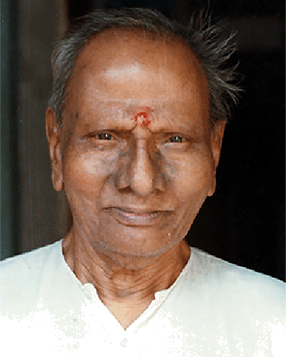
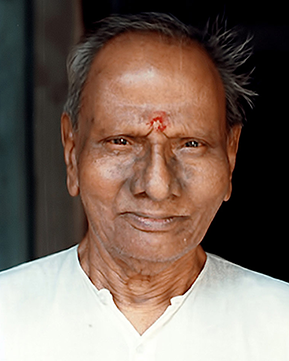
Png

diff --git a/meditation/src/css/style.min.css b/meditation/src/css/style.min.css
@@ -1,1 +1,1 @@
-/*! normalize.css v8.0.1 | MIT License | github.com/necolas/normalize.css */html{line-height:1.15;-webkit-text-size-adjust:100%}body{margin:0}main{display:block}h1{font-size:2em;margin:.67em 0}hr{box-sizing:content-box;height:0;overflow:visible}pre{font-family:monospace,monospace;font-size:1em}a{background-color:transparent}abbr[title]{border-bottom:none;text-decoration:underline;-webkit-text-decoration:underline dotted;text-decoration:underline dotted}b,strong{font-weight:bolder}code,kbd,samp{font-family:monospace,monospace;font-size:1em}small{font-size:80%}sub,sup{font-size:75%;line-height:0;position:relative;vertical-align:baseline}sub{bottom:-.25em}sup{top:-.5em}img{border-style:none}button,input,optgroup,select,textarea{font-family:inherit;font-size:100%;line-height:1.15;margin:0}button,input{overflow:visible}button,select{text-transform:none}[type=button],[type=reset],[type=submit],button{-webkit-appearance:button}[type=button]::-moz-focus-inner,[type=reset]::-moz-focus-inner,[type=submit]::-moz-focus-inner,button::-moz-focus-inner{border-style:none;padding:0}[type=button]:-moz-focusring,[type=reset]:-moz-focusring,[type=submit]:-moz-focusring,button:-moz-focusring{outline:1px dotted ButtonText}fieldset{padding:.35em .75em .625em}legend{box-sizing:border-box;color:inherit;display:table;max-width:100%;padding:0;white-space:normal}progress{vertical-align:baseline}textarea{overflow:auto}[type=checkbox],[type=radio]{box-sizing:border-box;padding:0}[type=number]::-webkit-inner-spin-button,[type=number]::-webkit-outer-spin-button{height:auto}[type=search]{-webkit-appearance:textfield;outline-offset:-2px}[type=search]::-webkit-search-decoration{-webkit-appearance:none}::-webkit-file-upload-button{-webkit-appearance:button;font:inherit}details{display:block}summary{display:list-item}template{display:none}[hidden]{display:none}@font-face{font-family:vivaldi;src:url(../fonts/vivaldi.ttf);font-weight:400;font-style:normal}@font-face{font-family:'Montserrat Alternates',sans-serif;font-family:Montserrat,sans-serif;font-family:'Open Sans',sans-serif;font-family:Lobster,cursive;font-family:Comfortaa,cursive;font-family:'Marck Script',cursive;font-family:'Bad Script',cursive}html{font-size:18px;color:#000}body{font-family:'Open Sans',sans-serif;overflow-wrap:break-word;word-wrap:break-word}.container{min-width:320px;max-width:100%;padding:0 0;box-sizing:border-box;margin:0 auto;background:#f0ece7}.wrap{min-width:0;max-width:1280px;padding:0 15px;box-sizing:border-box;margin:0 auto;box-sizing:border-box}.header{background:url(../img/bg.jpg) center center no-repeat;background-size:cover;padding:10px 0 250px 0;position:relative}.header::after{content:"";background:rgba(0,0,0,.342);top:0;left:0;position:absolute;z-index:1;width:100%;height:100%}.header__wrap{display:flex;justify-content:space-between;z-index:3}.header__logo{display:flex;align-items:center;z-index:2}.logo__img{width:80px;height:auto}.logo__name{color:#fff;font-family:'Montserrat Alternates',sans-serif;font-size:20px;margin-left:20px}.header__lang{display:flex;justify-content:space-between;align-items:center;z-index:2;order:3}.header__lang a{text-decoration:none;color:#fff;border-bottom:1px solid transperant;display:block}.header__lang a:active,.header__lang a:hover{border-bottom:1px solid #e74c3c}.header__lang a:active span,.header__lang a:hover span{color:#e74c3c}.header__lang a:first-child{margin-right:0;padding-right:0}.header__lang a:last-child{margin-left:5px}.header__lang a span{font-size:20px;color:#fff}.header__lang a .lang__divider{margin-left:5px;border-right:2px solid #e6cccc;line-height:1;font-size:14px}.header__quote{max-width:900px;margin:250px auto;position:relative;z-index:2;padding-right:0;padding-left:0}.header__quote p{font-size:30px;color:#fff;text-align:center;font-family:'Open Sans',sans-serif;font-weight:300}.header__quote span{display:block;margin:0 auto;font-family:Montserrat,sans-serif;font-size:20px;font-weight:300;text-align:center;color:#fff;letter-spacing:1.2}.divider{display:block;width:7px;position:relative;margin:20px auto}.divider p{text-align:center}.divider p::after{content:"";width:7px;height:7px;background-color:#e74c3c;display:block;border-radius:50%}.divider::after,.divider::before{content:"";width:80px;height:1px;background-color:#999;display:block;position:absolute;top:50%;transform:translateY(-1px)}.divider::before{left:-90px}.divider::after{right:-90px}@media (max-width:980px){.header{padding:10px 0 150px 0}.header__quote{width:96%;padding-left:2%;padding-right:2%}.header__quote p{font-size:25px}}@media (max-width:980px){.header__lang{position:absolute;top:29px;right:80px}.header__wrap{padding:0 10px;flex-wrap:wrap}.header__logo{display:flex;justify-content:flex-start;align-items:center}.header__logo img{width:60px}.header__logo .logo__name{margin-left:5px}.header__lang{margin-left:-20px;order:2}.header__menu{margin-top:10px;justify-content:center;padding-left:0;order:3;margin:0 auto;display:none}.menu__element{padding:20px 20px}.menu__element a{padding:5px 0}.header__quote{max-width:900px;margin:180px 0 80px}.header__quote p{margin-bottom:30px}}@media (max-width:480px){.header__quote{margin:145px 0 125px}.header__quote p{margin-bottom:20px;font-size:20px}.header__quote span{display:16px}}@media (max-width:360px){.header__wrap{min-width:0}.logo__name{margin-left:5px}}.divider{display:block;width:7px;position:relative;margin:20px auto}.divider p{text-align:center}.divider p::after{content:"";width:7px;height:7px;background-color:#e74c3c;display:block;border-radius:50%}.divider::after,.divider::before{content:"";width:80px;height:1px;background-color:#999;display:block;position:absolute;top:50%;transform:translateY(-1px)}.divider::before{left:-90px}.divider::after{right:-90px}.menu{position:relative;z-index:3;width:900px;align-items:center;padding-top:17px}.menu__list{list-style:none;display:flex;justify-content:center;align-items:center;z-index:3}.menu__list .menu__element{transition-duration:.5s;transition-property:background-color;padding:0 20px;list-style:none}.menu__list .menu__link{text-decoration:none}.menu__list .menu__link:focus,.menu__list .menu__link:hover{color:#e6cccc}.menu__list a{text-decoration:none;color:#fff;font-family:'Montserrat Alternates',sans-serif;font-size:20px;border-top:1px solid transparent;border-bottom:1px solid transparent;padding-bottom:5px;font-weight:400}.menu__list a:hover{border-bottom:1px solid #e6cccc}.menu__element{padding:10px;transition-duration:.5s;transition-property:background-color}.menu__element:last-child{margin-right:100px}.menu__link{text-decoration:none;color:#fff;font-weight:600}.menu__link:focus{color:#fff}.menu__link:hover{color:#e6cccc}.menu__list--active{display:flex;width:900px;justify-content:space-between;align-items:center;z-index:1;position:absolute;right:-10px;top:0}@media (max-width:980px){menu{width:900px}.menu__list{display:none}.menu__list .menu__element{padding:0 5px}.menu__element:last-child{margin-right:80px}.menu__list--active{flex-direction:column;justify-content:center;align-items:center;width:100vw;height:100vh;background:linear-gradient(to top,#404040,#72655c);z-index:3;margin-top:-75px;display:flex}.menu__list--active .menu__element{margin-bottom:120px;display:block}.menu__list--active .menu__element:last-child{margin-right:0}.menu__list--active .menu__element:hover{text-align:center;vertical-align:center}.menu__list--active .menu__element:hover .menu__link{border-bottom:1px solid #e6cccc}.menu__list--active .menu__link{color:#fff;font-size:30px}}@media (max-width:580px){.menu__list--active{align-items:center}.menu__element:last-child{margin-right:100px}}.hamburger{background:0 0;display:block;cursor:pointer;border:none;position:absolute;width:50px;height:40px;right:-6px;top:-51px;outline:0;z-index:2}.hamburger:hover .hamburger__element{background-color:#e6cccc}.hamburger__element{width:30px;height:2px;background-color:#fff;display:block;margin:6px auto}.hamburger--active{position:absolute;z-index:1;outline:0;top:-50px}.hamburger--active .hamburger__element{margin:-2px auto;background-color:#ccc}.hamburger--active .hamburger__element:nth-child(1){transform:rotate(45deg)}.hamburger--active .hamburger__element:nth-child(2){transform:rotate(-45deg)}.hamburger--active .hamburger__element:nth-child(3),.hamburger--active .hamburger__element:nth-child(4){display:none}.hamburger--active:hover .hamburger__element{background-color:#e6cccc}@media (max-width:980px){.hamburger--active{z-index:4}}.title{font-size:30px;font-weight:600;font-family:'Montserrat Alternates',sans-serif;color:#353439;text-align:center}.quote{text-align:center;width:40%;display:block;margin:0 auto;font-weight:400;color:#5d5d5d}.lotus{margin:0 auto;margin-top:50px;text-align:center}.lotus img{height:100%;width:50px}@media (max-width:980px){.quote{width:60%}}@media (max-width:768px){.quote{width:80%}}@media (max-width:480px){.quote{width:90%}}.text__block{width:725px;margin:0 auto;margin-top:40px}.text__block a{color:#818080}.text__block a:hover{color:#e6cccc}.text{color:#353739;line-height:1.5;text-align:justify;text-indent:5%;font-weight:500}.dialog{color:#4b4a4a;font-weight:600}.text--source{color:#5d5d5d;font-style:italic}@media (max-width:768px){.text__block{width:100%}}.section{padding:80px 0 0 0}.vichara{padding-bottom:60px}@media (max-width:768px){.section{padding:30px 0 0 0}.vichara{padding-bottom:30px}}.block{margin-top:30px;display:flex;flex-wrap:wrap}.block__photo{flex-basis:19%;align-items:top}.block__photo img{width:100%;box-shadow:0 14px 28px rgba(0,0,0,.25),0 10px 10px rgba(0,0,0,.22);margin-bottom:8px}.block__photo .name{text-align:center;font-weight:700;color:#353739;line-height:.4;font-family:Montserrat,sans-serif}.block__photo .years{text-align:center;font-weight:400;color:#5d5d5d;line-height:.2}.block__photo .place{text-align:center;font-weight:300;color:#5d5d5d;line-height:.2}.block__photo--left{margin-right:20px}.block__photo--right{margin-left:20px}.block__text--center{flex-basis:58%}.block__text--center p:first-child{margin-top:0}.block__hidden{flex-basis:19%}@media (max-width:980px){.block__photo{flex-basis:50%;margin:0 auto}.block__text--center{flex-basis:100%}.who-am-i__block{flex-direction:column-reverse}}@media (max-width:480px){.block__photo{flex-basis:80%;margin:0 auto}.block__text--center{flex-basis:100%}}.footer{background:#353739;padding:10px 0;text-align:center}.footer__info{color:#fff}.footer__info .year{color:#fab88c}.footer__info .made{color:#e6cccc}.page-up{display:none;position:fixed;bottom:18px;right:12px;width:40px;height:40px;z-index:3}.page-up img{width:100%}
+/*! normalize.css v8.0.1 | MIT License | github.com/necolas/normalize.css */html{line-height:1.15;-webkit-text-size-adjust:100%}body{margin:0}main{display:block}h1{font-size:2em;margin:.67em 0}hr{box-sizing:content-box;height:0;overflow:visible}pre{font-family:monospace,monospace;font-size:1em}a{background-color:transparent}abbr[title]{border-bottom:none;text-decoration:underline;-webkit-text-decoration:underline dotted;text-decoration:underline dotted}b,strong{font-weight:bolder}code,kbd,samp{font-family:monospace,monospace;font-size:1em}small{font-size:80%}sub,sup{font-size:75%;line-height:0;position:relative;vertical-align:baseline}sub{bottom:-.25em}sup{top:-.5em}img{border-style:none}button,input,optgroup,select,textarea{font-family:inherit;font-size:100%;line-height:1.15;margin:0}button,input{overflow:visible}button,select{text-transform:none}[type=button],[type=reset],[type=submit],button{-webkit-appearance:button}[type=button]::-moz-focus-inner,[type=reset]::-moz-focus-inner,[type=submit]::-moz-focus-inner,button::-moz-focus-inner{border-style:none;padding:0}[type=button]:-moz-focusring,[type=reset]:-moz-focusring,[type=submit]:-moz-focusring,button:-moz-focusring{outline:1px dotted ButtonText}fieldset{padding:.35em .75em .625em}legend{box-sizing:border-box;color:inherit;display:table;max-width:100%;padding:0;white-space:normal}progress{vertical-align:baseline}textarea{overflow:auto}[type=checkbox],[type=radio]{box-sizing:border-box;padding:0}[type=number]::-webkit-inner-spin-button,[type=number]::-webkit-outer-spin-button{height:auto}[type=search]{-webkit-appearance:textfield;outline-offset:-2px}[type=search]::-webkit-search-decoration{-webkit-appearance:none}::-webkit-file-upload-button{-webkit-appearance:button;font:inherit}details{display:block}summary{display:list-item}template{display:none}[hidden]{display:none}@font-face{font-family:vivaldi;src:url(../fonts/vivaldi.ttf);font-weight:400;font-style:normal}@font-face{font-family:'Montserrat Alternates',sans-serif;font-family:Montserrat,sans-serif;font-family:'Open Sans',sans-serif;font-family:Lobster,cursive;font-family:Comfortaa,cursive;font-family:'Marck Script',cursive;font-family:'Bad Script',cursive}html{font-size:18px;color:#000}body{font-family:'Open Sans',sans-serif;overflow-wrap:break-word;word-wrap:break-word}.container{min-width:320px;max-width:100%;padding:0 0;box-sizing:border-box;margin:0 auto;background:#f0ece7}.wrap{min-width:0;max-width:1280px;padding:0 15px;box-sizing:border-box;margin:0 auto;box-sizing:border-box}.header{background:url(../img/bg.jpg) center center no-repeat;background-size:cover;padding:10px 0 250px 0;position:relative}.header::after{content:"";background:rgba(0,0,0,.342);top:0;left:0;position:absolute;z-index:1;width:100%;height:100%}.header__wrap{display:flex;justify-content:space-between;z-index:3}.header__logo{display:flex;align-items:center;z-index:2}.logo__img{width:80px;height:auto}.logo__name{color:#fff;font-family:'Montserrat Alternates',sans-serif;font-size:20px;margin-left:20px}.header__lang{display:flex;justify-content:space-between;align-items:center;z-index:2;order:3}.header__lang a{text-decoration:none;color:#fff;border-bottom:1px solid transperant;display:block}.header__lang a:active,.header__lang a:hover{border-bottom:1px solid #e74c3c}.header__lang a:active span,.header__lang a:hover span{color:#e74c3c}.header__lang a:first-child{margin-right:0;padding-right:0}.header__lang a:last-child{margin-left:5px}.header__lang a span{font-size:20px;color:#fff}.header__lang a .lang__divider{margin-left:5px;border-right:2px solid #e6cccc;line-height:1;font-size:14px}.header__quote{max-width:900px;margin:250px auto;position:relative;z-index:2;padding-right:0;padding-left:0}.header__quote p{font-size:30px;color:#fff;text-align:center;font-family:'Open Sans',sans-serif;font-weight:300}.header__quote span{display:block;margin:0 auto;font-family:Montserrat,sans-serif;font-size:20px;font-weight:300;text-align:center;color:#fff;letter-spacing:1.2}.divider{display:block;width:7px;position:relative;margin:20px auto}.divider p{text-align:center}.divider p::after{content:"";width:7px;height:7px;background-color:#e74c3c;display:block;border-radius:50%}.divider::after,.divider::before{content:"";width:80px;height:1px;background-color:#999;display:block;position:absolute;top:50%;transform:translateY(-1px)}.divider::before{left:-90px}.divider::after{right:-90px}@media (max-width:980px){.header{padding:10px 0 150px 0}.header__quote{width:96%;padding-left:2%;padding-right:2%}.header__quote p{font-size:25px}}@media (max-width:980px){.header__lang{position:absolute;top:29px;right:80px}.header__wrap{padding:0 10px;flex-wrap:wrap}.header__logo{display:flex;justify-content:flex-start;align-items:center}.header__logo img{width:60px}.header__logo .logo__name{margin-left:5px}.header__lang{margin-left:-20px;order:2}.header__menu{margin-top:10px;justify-content:center;padding-left:0;order:3;margin:0 auto;display:none}.menu__element{padding:20px 20px}.menu__element a{padding:5px 0}.header__quote{max-width:900px;margin:180px 0 80px}.header__quote p{margin-bottom:30px}}@media (max-width:480px){.header__quote{margin:145px 0 125px}.header__quote p{margin-bottom:20px;font-size:20px}.header__quote span{display:16px}}@media (max-width:360px){.header__wrap{min-width:0}.logo__name{margin-left:5px}}.divider{display:block;width:7px;position:relative;margin:20px auto}.divider p{text-align:center}.divider p::after{content:"";width:7px;height:7px;background-color:#e74c3c;display:block;border-radius:50%}.divider::after,.divider::before{content:"";width:80px;height:1px;background-color:#999;display:block;position:absolute;top:50%;transform:translateY(-1px)}.divider::before{left:-90px}.divider::after{right:-90px}.menu{position:relative;z-index:3;width:900px;align-items:center;padding-top:17px}.menu__list{list-style:none;display:flex;justify-content:center;align-items:center;z-index:3}.menu__list .menu__element{transition-duration:.5s;transition-property:background-color;padding:0 20px;list-style:none}.menu__list .menu__link{text-decoration:none}.menu__list .menu__link:focus,.menu__list .menu__link:hover{color:#e6cccc}.menu__list a{text-decoration:none;color:#fff;font-family:'Montserrat Alternates',sans-serif;font-size:20px;border-top:1px solid transparent;border-bottom:1px solid transparent;padding-bottom:5px;font-weight:400}.menu__list a:hover{border-bottom:1px solid #e6cccc}.menu__element{padding:10px;transition-duration:.5s;transition-property:background-color}.menu__element:last-child{margin-right:100px}.menu__link{text-decoration:none;color:#fff;font-weight:600}.menu__link:focus{color:#fff}.menu__link:hover{color:#e6cccc}.menu__list--active{display:flex;width:900px;justify-content:space-between;align-items:center;z-index:1;position:absolute;right:-10px;top:0}@media (max-width:980px){menu{width:900px}.menu__list{display:none}.menu__list .menu__element{padding:0 5px}.menu__element:last-child{margin-right:80px}.menu__list--active{flex-direction:column;justify-content:center;align-items:center;width:100vw;height:100vh;background:linear-gradient(to top,#404040,#72655c);z-index:3;margin-top:-75px;display:flex}.menu__list--active .menu__element{margin-bottom:120px;display:block}.menu__list--active .menu__element:last-child{margin-right:0}.menu__list--active .menu__element:hover{text-align:center;vertical-align:center}.menu__list--active .menu__element:hover .menu__link{border-bottom:1px solid #e6cccc}.menu__list--active .menu__link{color:#fff;font-size:30px}}@media (max-width:580px){.menu__list--active{align-items:center}.menu__element:last-child{margin-right:100px}}.hamburger{background:0 0;display:block;cursor:pointer;border:none;position:absolute;width:50px;height:40px;right:-6px;top:-51px;outline:0;z-index:2}.hamburger:hover .hamburger__element{background-color:#e6cccc}.hamburger__element{width:30px;height:2px;background-color:#fff;display:block;margin:6px auto}.hamburger--active{position:absolute;z-index:1;outline:0;top:-50px}.hamburger--active .hamburger__element{margin:-2px auto;background-color:#ccc}.hamburger--active .hamburger__element:nth-child(1){transform:rotate(45deg)}.hamburger--active .hamburger__element:nth-child(2){transform:rotate(-45deg)}.hamburger--active .hamburger__element:nth-child(3),.hamburger--active .hamburger__element:nth-child(4){display:none}.hamburger--active:hover .hamburger__element{background-color:#e6cccc}@media (max-width:980px){.hamburger--active{z-index:4}}.title{font-size:30px;font-weight:600;font-family:'Montserrat Alternates',sans-serif;color:#353439;text-align:center}.title--eng{font-family:Montserrat,sans-serif}.quote{text-align:center;width:40%;display:block;margin:0 auto;font-weight:400;color:#5d5d5d}.lotus{margin:0 auto;margin-top:50px;text-align:center}.lotus img{height:100%;width:50px}@media (max-width:980px){.quote{width:60%}}@media (max-width:768px){.quote{width:80%}}@media (max-width:480px){.quote{width:90%}}.text__block{width:725px;margin:0 auto;margin-top:40px}.text__block a{color:#818080}.text__block a:hover{color:#e6cccc}.text{color:#353739;line-height:1.5;text-align:justify;text-indent:5%;font-weight:500}.dialog{color:#4b4a4a;font-weight:600}.text--source{color:#5d5d5d;font-style:italic}@media (max-width:768px){.text__block{width:100%}}.section{padding:80px 0 0 0}.vichara{padding-bottom:60px}@media (max-width:768px){.section{padding:30px 0 0 0}.vichara{padding-bottom:30px}}.block{margin-top:30px;display:flex;flex-wrap:wrap}.block__photo{flex-basis:19%;align-items:top}.block__photo img{width:100%;box-shadow:0 14px 28px rgba(0,0,0,.25),0 10px 10px rgba(0,0,0,.22);margin-bottom:8px}.block__photo .name{text-align:center;font-weight:700;color:#353739;line-height:.4;font-family:Montserrat,sans-serif}.block__photo .years{text-align:center;font-weight:400;color:#5d5d5d;line-height:.2}.block__photo .place{text-align:center;font-weight:300;color:#5d5d5d;line-height:.2}.block__photo--left{margin-right:20px}.block__photo--right{margin-left:20px}.block__text--center{flex-basis:58%}.block__text--center p:first-child{margin-top:0}.block__hidden{flex-basis:19%}@media (max-width:980px){.block__photo{flex-basis:50%;margin:0 auto}.block__text--center{flex-basis:100%}.who-am-i__block{flex-direction:column-reverse}}@media (max-width:480px){.block__photo{flex-basis:80%;margin:0 auto}.block__text--center{flex-basis:100%}}.footer{background:#353739;padding:10px 0;text-align:center}.footer__info{color:#fff}.footer__info .year{color:#fab88c}.footer__info .made{color:#e6cccc}.page-up{display:none;position:fixed;bottom:18px;right:12px;width:40px;height:40px;z-index:3}.page-up img{width:100%}

diff --git a/meditation/src/index-eng.html b/meditation/src/index-eng.html
@@ -74,7 +74,7 @@
             <div class="wrap">
                 <h2 class="title">Practice</h2>
                 <div class="divider"><p></p></div>
-                <p class="quote"> "The art of meditation is the art of shifting the focus of attention to ever subtler levels, without losing one's grip on the levels left behind."</p>
+                <p class="quote"> " The art of meditation is the art of shifting the focus of attention to ever subtler levels, without losing one's grip on the levels left behind."</p>
                 <div class="text__block">
                         <p class="text">Watch your thoughts as you watch the street traffic. People come and go; you register without response. It may not be easy in the beginning, but with some practice you will find that your mind can function on many levels at the same time and you can be aware of them all. It is only when you have a vested interest in any particular level, that your attention gets caught in it and you black out on other levels. Even then the work on the blacked out levels goes on, outside the field of consciousness.</p>
                         <p class="text">Do not struggle with your memories and thoughts; try only to include in your field of attention the other, more important questions, like 'Who am l?' 'How did I happen to be born?' 'Whence this universe around me?'. 'What is real and what is momentary?' No memory will persist, if you lose interest in it, it is the emotional link that perpetuates the bondage. </p>
@@ -87,7 +87,7 @@
                         <p class="text">Q: I can see that the basic biological anxiety, the flight instinct, takes many shapes and distorts my thoughts and feelings. But how did this anxiety come into being? </p>
                         <p class="text">М: It is a mental state caused by the 'I-am-the-body' idea. It can be removed by the contrary idea: 'I-am-not-the-body'. Both the ideas are false, but one removes the other. realise that no ideas are your own, they all come to you from outside. You must think it all out for yourself, become yourself the object of your meditation.</p>
                         
-                        <p class="text">Meditation is a deliberate attempt to pierce into the higher states of consciousness and finally go beyond it. The art of meditation is the art of shifting the focus of attention to ever subtler levels, without losing one's grip on the levels left behind. In a way it is like having death under control. One begins with the lowest levels: social circumstances, customs and habits; physical surroundings, the posture and the breathing of the body, the senses, their sensations and perceptions; the mind, its thoughts and feelings; until the entire mechanism of personality is grasped and firmly held. The final stage of meditation is reached when the sense of identity goes beyond the 'I-am-so-and-so', beyond  'so-l-am', beyond 'I-am-the-witness-only', beyond 'there-is', beyond all ideas into the impersonally personal pure being. But you must be energetic when you take to meditation. It is definitely not a part-time occupation. Limit your interests and activities to what is needed for you and your dependents' barest needs. Save all your energies and time for breaking the wall your mind had built around you. Believe me, you will not regret.</p>
+                        <p class="text">  Meditation is a deliberate attempt to pierce into the higher states of consciousness and finally go beyond it. The art of meditation is the art of shifting the focus of attention to ever subtler levels, without losing one's grip on the levels left behind. In a way it is like having death under control. One begins with the lowest levels: social circumstances, customs and habits; physical surroundings, the posture and the breathing of the body, the senses, their sensations and perceptions; the mind, its thoughts and feelings; until the entire mechanism of personality is grasped and firmly held. The final stage of meditation is reached when the sense of identity goes beyond the 'I-am-so-and-so', beyond  'so-l-am', beyond 'I-am-the-witness-only', beyond 'there-is', beyond all ideas into the impersonally personal pure being. But you must be energetic when you take to meditation. It is definitely not a part-time occupation. Limit your interests and activities to what is needed for you and your dependents' barest needs. Save all your energies and time for breaking the wall your mind had built around you. Believe me, you will not regret.</p>
                         <p class="text">At the end of your meditation all is known directly, no proofs whatsoever are required. Just as every drop of the ocean carries the taste of the ocean, so does every moment carry the taste of eternity. Definitions and descriptions have their place as useful incentives for further search, but you must go beyond them into what is undefinable and indescribable, except in negative terms.
                         After all, even universality and eternity are mere concepts, the opposites of being place and time-bound.</p>
                         <p class="text">Reality is not a concept, nor the manifestation of a concept. It has nothing to do with concepts. Concern yourself with your mind, remove its distortions and impurities. Once you had the taste of your own self, you will find it everywhere and at all times. Therefore, it is so important that you should come to it. Once you know it, you will never lose it.But you must give yourself the opportunity through intensive, even arduous meditation.[81]</p>
@@ -104,13 +104,13 @@
                 <p class="quote"> "The sense of being, of 'I am' is the first to emerge. Ask yourself whence it comes, or just watch it quietly."</p> 
                 <div class="block i-am__block">
                     <div class="block__photo block__photo--left">
-                        <img class="block__img" src="img/nisargadatta.jpg" alt="">
+                        <img class="block__img" src="img/nisargadatta.png" alt="">
                         <p class="name">Nisargadatta Maharaj</p>
                         <p class="years">(1897–1981)</p>
                         <p class="place">Mumbai, India</p>
                     </div>
                     <div class="block__text block__text--center">
-                        <p class="text">Go deep into the sense of ‘I am’ and you will find. How do you find a thing you have mislaid or forgotten? You keep it in your mind until you recall it. The sense of being, of 'I am' is the first to emerge. Ask yourself whence it comes, or just watch it quietly. When the mind stays in the 'I am' without moving, you enter a state which cannot be verbalised but can be experienced. All you need to do is try and try again. After all the sense ‘I am’ is always with you, only you have attached all kinds of things to it -- body, feelings, thoughts, ideas, possessions etc. All these self-identifications are misleading. Because of them you take yourself to be what you are not.</p>
+                        <p class="text">  Go deep into the sense of ‘I am’ and you will find. How do you find a thing you have mislaid or forgotten? You keep it in your mind until you recall it. The sense of being, of 'I am' is the first to emerge. Ask yourself whence it comes, or just watch it quietly. When the mind stays in the 'I am' without moving, you enter a state which cannot be verbalised but can be experienced. All you need to do is try and try again. After all the sense ‘I am’ is always with you, only you have attached all kinds of things to it -- body, feelings, thoughts, ideas, possessions etc. All these self-identifications are misleading. Because of them you take yourself to be what you are not.</p>
                         <p class="text">Q: Then what am I?</p>
                         <p class="text">M: It is enough to know what you are not. You need not know what you are. For as long as knowledge means description in terms of what is already known, perceptual, or conceptual, there can be no such thing as self-knowledge, for what you are cannot be described, except as except as total negation. All you can say is: ‘I am not this, I am not that’. You cannot meaningfully say ‘this is what I am’. It just makes no sense. What you can point out as 'this' or 'that' cannot be yourself. </p>
                         <p class="text">Surely, you can not be 'something' else. You are nothing perceivable, or imaginable. Yet, without you there can be neither perception nor imagination. You observe the heart feeling, the mind thinking, the body acting; the very act of perceiving shows that you are not what you perceive. Can there be perception, experience without you? An experience must ‘belong'. Somebody must come and declare it as his own. Without an experiencer the experience is not real. It is the experiencer that imparts reality to experience. An experience which you cannot have, of what value is it to you?</p>
@@ -137,7 +137,7 @@
             <div class="wrap">
                 <h2 class="title">Who am I</h2>
                 <div class="divider"><p></p></div>
-                <p class="quote"> "There is always the feeling of ‘I’. Otherwise do you deny your existence? You do not. You say ‘I am’. Find out who is."</p>
+                <p class="quote"> "Завжди є почуття «Я». Бо чи заперечуєте ви своє існування? Ні. Ви кажете «Я є». Дізнайтеся, хто є."</p>
                 <div class="block who-am-i__block">
                     <div class="block__hidden hidden--right"></div>
                     <div class="block__text block__text--center">
@@ -211,7 +211,7 @@
                     <p class="text"> All our attempts are directed for lifting this screen and then Realisation is revealed.  If a true seeker is advised to meditate, many may go away satisfied with the advice. But someone among them may turn round and ask, “Who am I to meditate on an object?” Such a one must be told to find the Self. That is the finality. That is Vichara</p>
                     <p class="text">D.: Will vichara alone do in the absence of meditation?</p>
                     <p class="text">M.: Vichara is the process and the goal also. ‘I AM’ is the goal and the final Reality. To hold to it with effort is vichara. When spontaneous and natural it is Realisation.[390]</p>
-                    <p class="text--source">[Talks with Ramana Maharshi, recorded by Munagala S. Venkataramiah l935-1939]</p>
+                    <p class="text--source">[[Talks with Ramana Maharshi, recorded by Munagala S. Venkataramiah l935-1939]</p>
                 </div>
                 <div class="lotus"><img src="img/lotus.png" alt=""></div>
             </div>

diff --git a/meditation/src/index.html b/meditation/src/index.html
@@ -104,7 +104,7 @@
                 <p class="quote"> "Відчуття буття «Я є» - це найперше, що виникає. Запитайте себе, звідки воно приходить, або просто спокійно спостерігайте за ним."</p>
                 <div class="block i-am__block">
                     <div class="block__photo block__photo--left">
-                        <img class="block__img" src="img/nisargadatta.jpg" alt="">
+                        <img class="block__img" src="img/nisargadatta.png" alt="">
                         <p class="name">Нісарґадатта Махарадж</p>
                         <p class="years">(1897–1981)</p>
                         <p class="place">Мумбаї, Індія</p>

diff --git a/meditation/src/sass/blocks/_title.scss b/meditation/src/sass/blocks/_title.scss
@@ -5,6 +5,9 @@
     color: $titleColor;
     text-align: center;
 }
+.title--eng {
+    font-family: 'Montserrat', sans-serif;
+}
 .quote {
     text-align: center;
     width: 40%;
